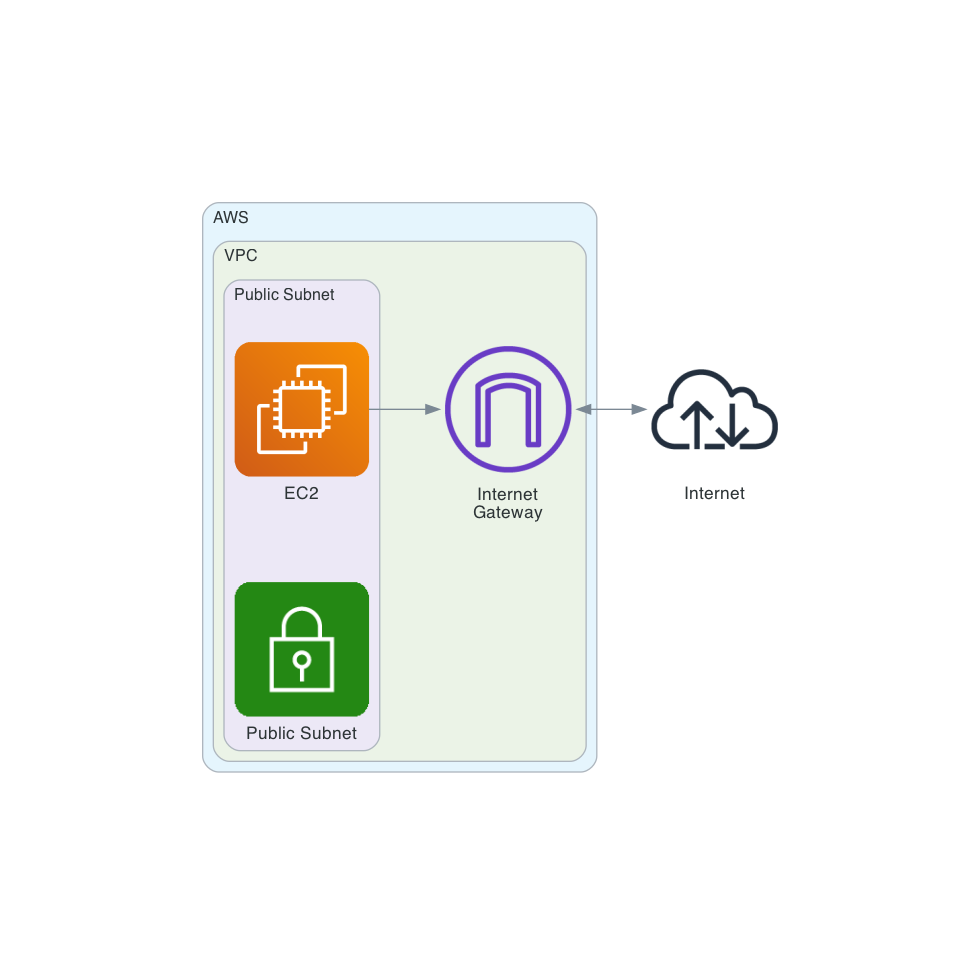
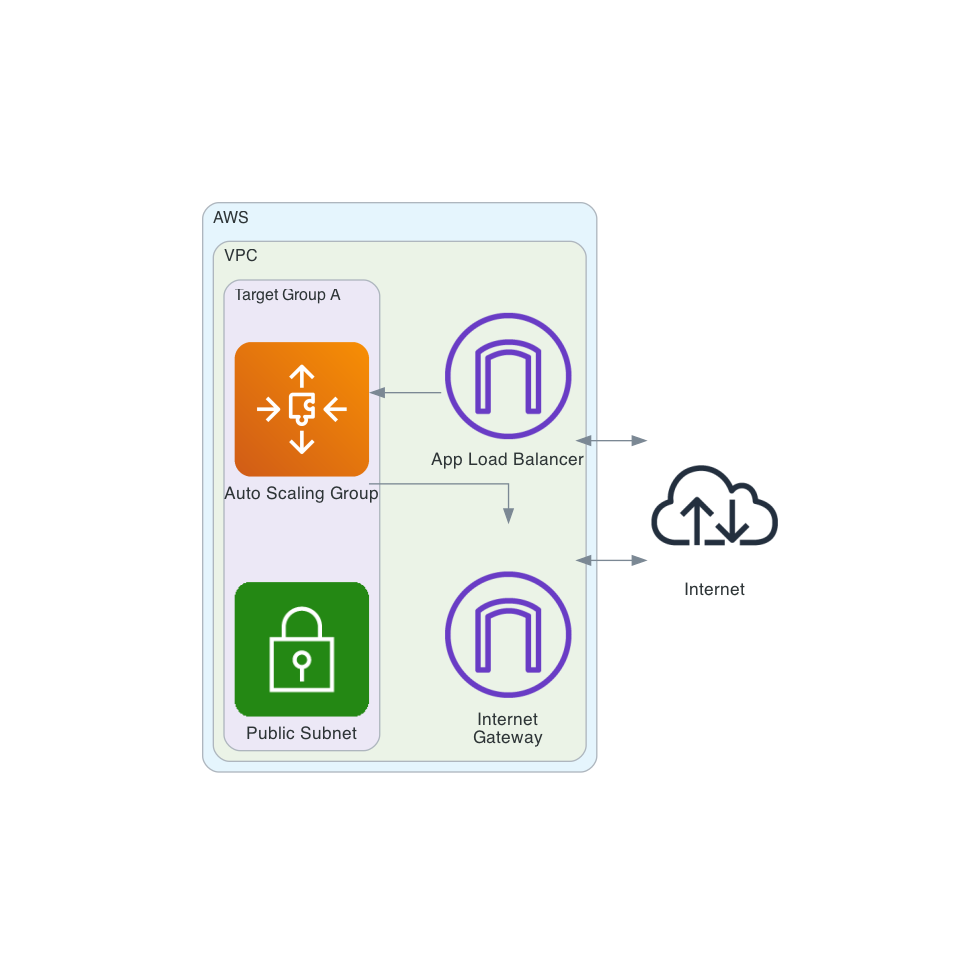
diagrams: Update diagrams

diff --git a/diagrams/backend_diagram.py b/diagrams/backend_diagram.py
@@ -1,21 +1,18 @@
 from diagrams import Cluster, Diagram, Edge
 from diagrams.aws.general import User
-from diagrams.aws.compute import EC2
-from diagrams.aws.network import ELB, Route53
-from diagrams.aws.management import Cloudwatch
-from diagrams.onprem.ci import GithubActions
-from diagrams.onprem.container import Docker
+from diagrams.aws.compute import EC2, AutoScaling
+from diagrams.aws.network import ALB, Route53
 
 with Diagram("", filename="backend_diagram", outformat="png"):
-  user = User("User")
-  #github_action_ecr = GithubActions("Github Action")
-  #docker_image = Docker("Docker App")
-    
-  with Cluster("AWS"):
-    route_53 = Route53("Route53")
+    user = User("User")
 
-    with Cluster(""):
-      route_53 >> ELB("Load Balancer") >> [EC2("Worker 1"), EC2("Worker 2")]
+    with Cluster("AWS"):
+        route_53 = Route53("Route53")
+        app_load_balancer = ALB("Application Load Balancer")
+        route_53 >> app_load_balancer
 
-  user >> Edge(label="/GET") >> route_53
-  #github_action_ecr >> Edge(label="Build + push image")  >> docker_image >> ecr
+        with Cluster("Target Group"):
+            app_load_balancer >> Edge(label="") >> AutoScaling(
+                "Auto Scaling Group") >> [EC2("Worker 1"), EC2("Worker 2")]
+
+    user >> Edge(label="") >> route_53

diff --git a/diagrams/vpc_diagram.py b/diagrams/vpc_diagram.py
@@ -1,20 +1,23 @@
 from diagrams import Cluster, Diagram, Edge
-from diagrams.aws.compute import EC2
-from diagrams.aws.network import InternetGateway, PublicSubnet
+from diagrams.aws.compute import EC2, AutoScaling
+from diagrams.aws.network import InternetGateway, PublicSubnet, ALB
 from diagrams.onprem.network import Internet
 
 with Diagram("", filename="vpc_diagram", outformat="png"):
 
-  internet = Internet("Internet")
+    internet = Internet("Internet")
 
-  with Cluster("AWS"):    
-    with Cluster("VPC"):
-      igw = InternetGateway("Internet\nGateway")
+    with Cluster("AWS"):
+        with Cluster("VPC"):
+            igw = InternetGateway("Internet\nGateway")
+            alb = InternetGateway("App Load Balancer")
 
-      with Cluster("Public Subnet"):
-        ec2 = EC2("EC2")
-        publicSubnet = PublicSubnet("Public Subnet")        
+            with Cluster("Target Group A"):
+                asg = AutoScaling("Auto Scaling Group")
+                publicSubnet = PublicSubnet("Public Subnet")
 
-      ec2 >>  igw
-           
-  igw >> Edge(label="") << internet
+            asg >> igw
+            asg << alb
+
+    igw >> Edge(label="") << internet
+    alb >> Edge(label="") << internet

diff --git a/infastructure/README.md b/infastructure/README.md
@@ -2,18 +2,11 @@
 
 ## Overview
 
-- Create key pair
-
-```
-aws ec2 create-key-pair \
-    --key-name ec2test \
-    --key-type rsa \
-    --key-format pem \
-    --query "KeyMaterial" \
-    --output text > ec2test.pem
-```
+- ALB
+- ASG -> EC2 launch template
 
 - CloudFormation: Used to deploy infastructure on AWS.
+- Code Deploy used to deploy app code
 
 Note: t4g.small is free until dec 31 2024.
 https://repost.aws/articles/ARdZ3_Qv8TQdyWhmy4npRMRQ/announcing-amazon-ec2-t4g-free-trial-extension
@@ -35,3 +28,14 @@ https://repost.aws/articles/ARdZ3_Qv8TQdyWhmy4npRMRQ/announcing-amazon-ec2-t4g-f
   width="100%"
   height="auto"
 />
+
+### Create key pair
+
+```
+aws ec2 create-key-pair \
+    --key-name ec2test \
+    --key-type rsa \
+    --key-format pem \
+    --query "KeyMaterial" \
+    --output text > keyname.pem
+```
